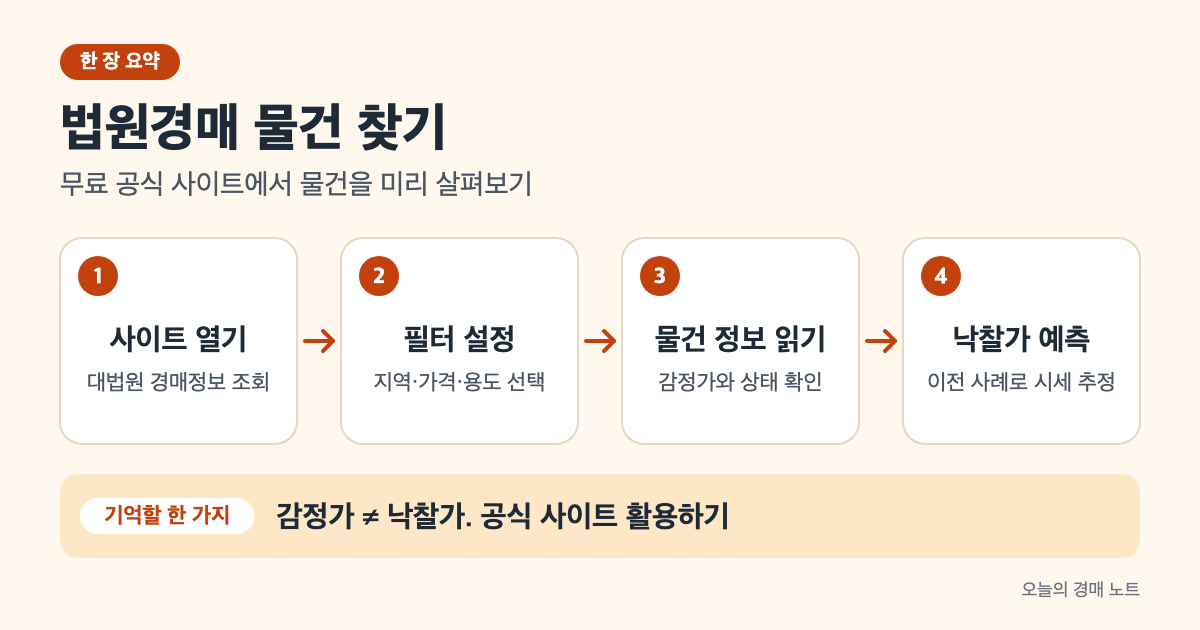
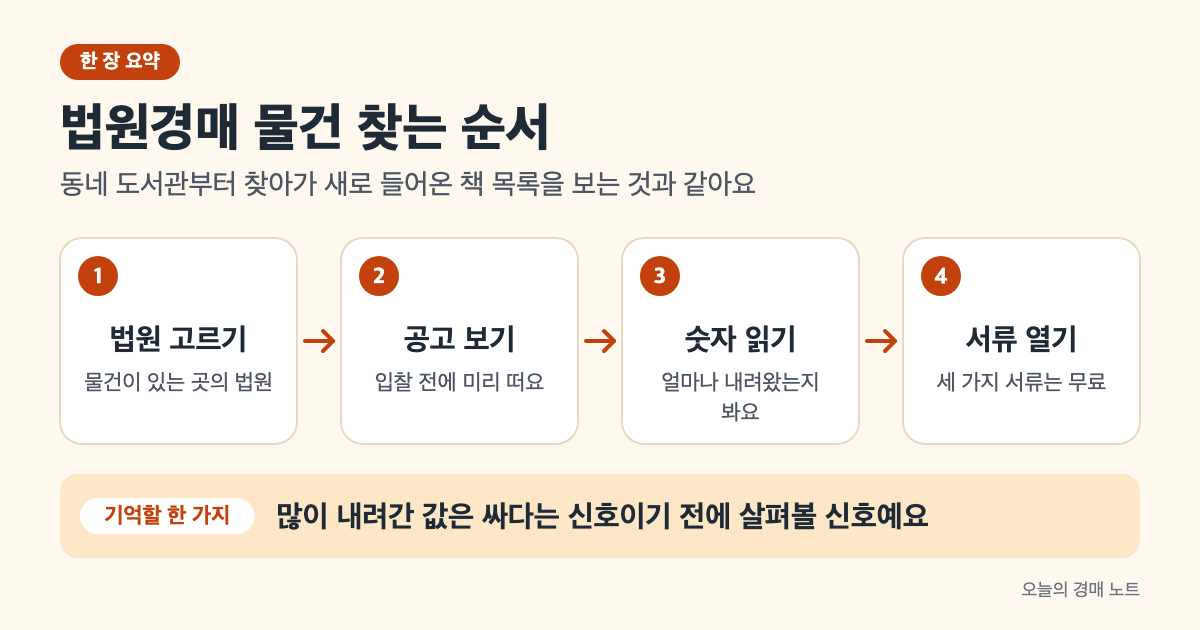
가이드 정리: 법원경매 무료 검색 — 법령 원문·실제 공고 기준으로 재작성

diff --git a/content/guide/court-auction-free-search/index.md b/content/guide/court-auction-free-search/index.md
@@ -2,101 +2,92 @@
 title: "법원경매 물건, 무료로 어디서 찾나"
 author: "rich-batch"
 date: 2026-09-19
-lastmod: 2026-09-19
+lastmod: 2026-10-11
 draft: true
 volatile: false
 categories: ["경매 절차"]
-tags: ["법원경매", "물건검색", "사건상태", "낙찰가예측", "감정가", "최저매각가"]
-description: "대법원 공식 사이트에서 무료로 경매 물건을 검색하는 방법. 지역·가격별 필터링부터 사건 상태 확인, 낙찰가 예측까지 초보자 3단계."
+tags: ["법원경매", "물건검색", "법원경매정보", "매각공고", "감정가", "최저매각가격"]
+description: "법원경매 물건은 법원경매정보에서 무료로 찾습니다. 관할 법원 고르기, 매각공고가 뜨는 시점, 감정가·최저매각가격·유찰 숫자 읽는 법을 법령과 실제 공고로 설명합니다."
 cover:
   image: "eli5-overview.png"
-  alt: "법원경매 물건 찾기의 4단계(사이트 열기 → 필터 설정 → 물건 정보 읽기 → 낙찰가 예측)를 화살표로 연결한 도식"
-  caption: "감정가와 낙찰가는 다릅니다. 대법원 공식 사이트에서 무료로 확인하세요."
+  alt: "관할 법원 고르기, 매각공고 보기, 숫자 읽기, 서류 열기의 네 단계를 화살표로 이은 도식"
+  caption: "물건은 관할 법원의 매각공고에서 찾고, 숫자를 읽은 뒤 서류를 엽니다"
 showToc: true
 TocOpen: true
 ---
 
-부동산 경매에 관심 있는 사람들이 가장 먼저 하는 일은 어디서 물건을 찾을까 검색하는 것입니다. 답은 간단한데요. **대법원이 운영하는 공식 사이트에서 무료로 찾으면 된다는 것입니다.** 이 글의 수치는 2026년 9월 19일 기준 공식 자료로 확인했습니다.
+법원경매 물건은 대법원이 운영하는 [법원경매정보](https://www.courtauction.go.kr/)에서 무료로 찾습니다. 법원은 매각기일 2주 전까지 최저매각가격과 점유 관계 등을 공고해야 하고([민사집행규칙 제56조](https://www.law.go.kr/법령/민사집행규칙/제56조)), 그 공고를 전자통신매체로 할 수 있어서([민사집행규칙 제11조](https://www.law.go.kr/법령/민사집행규칙/제11조)) 전국 법원의 매각 물건이 이 사이트 한곳에 모입니다.
 
-많은 초보자가 사설 경매 앱이나 블로그를 통해 물건을 찾다가 중개 수수료나 가짜 정보에 걸립니다. 하지만 대법원 시스템은 모든 법원경매 물건을 무료로 공개하고 있습니다. 이곳에서는 물건의 진짜 상태는 뭔지, 낙찰가가 어떻게 정해지는지, 내가 관심 있는 지역의 물건이 얼마나 있는지를 한눈에 파악할 수 있죠. 세 단계로 시작해 봅시다.
+찾는 곳은 하나인데 헤매는 이유는 대개 두 가지입니다. 물건이 있는 곳의 관할 법원을 몰라 엉뚱한 법원 공고를 보거나, 목록에 뜬 감정가·최저매각가격·유찰 횟수를 어떻게 읽어야 할지 모르는 거죠. 이 글은 2026년 10월 11일 기준 법령과 법원경매정보 공고로 그 두 가지를 정리했습니다.
 
 > **핵심 요약**
-> - 대법원 공식 사이트에서 모든 물건을 무료 조회할 수 있습니다 (로그인 불필요)
-> - 지역·가격·용도로 물건을 좁힌 뒤, 사건 상태로 현황을 확인합니다
-> - 감정가와 최저매각가, 이전 낙찰 사례로 입찰 전략을 세웁니다
+> - 물건이 있는 곳의 지방법원이 관할이라([민사집행법 제79조](https://www.law.go.kr/법령/민사집행법/제79조)), 법원부터 고르고 매각공고를 봅니다.
+> - 첫 회차 최저매각가격은 감정가를 참작해 정하고, 유찰되면 법원이 낮춰 새 기일을 잡습니다([민사집행법 제97조·제119조](https://www.law.go.kr/법령/민사집행법/제119조)).
 
-## 1단계: 대법원 사이트 열고 지역 선택하기
+## 관할 법원부터 고른다
 
-먼저 대법원 법원경매정보 시스템(검색 창에 "대법원 법원경매"라 입력하면 나옵니다)에 들어갑니다. 로그인이 필요 없습니다. 공개된 공식 정보이기 때문입니다.
+부동산 경매는 그 부동산이 있는 곳의 지방법원이 맡습니다([민사집행법 제79조](https://www.law.go.kr/법령/민사집행법/제79조)). 서울처럼 지방법원이 여럿인 곳은 구마다 관할이 갈려서, 법원을 잘못 고르면 원하는 동네 물건이 하나도 안 보여요.
 
-화면에 들어가면 가장 먼저 마주치는 것이 지역 선택 버튼입니다. 전국 16개 법원(서울, 부산, 대구, 인천 등)이 나열되어 있습니다. 서울 한 지역이라도 수백 개의 물건이 있을 수 있으니, 본인이 관심 있는 지역 법원을 선택합니다. 예를 들어 서울 강남구 아파트를 찾으면 서울중앙지방법원을 선택합니다([민사집행규칙 제30조](https://www.law.go.kr/법령/민사집행규칙/제30조) - 관할 법원 결정 규칙).
+이 블로그가 2026년 10월 매각기일 공고에서 모은 사건으로 보면 이렇게 나뉩니다. 송파구 잠실동 아파트는 서울동부지방법원, 구로·금천·강서·양천·영등포구 물건은 서울남부지방법원, 동작·관악구 물건은 서울중앙지방법원 사건이었고, 경기 북부의 의정부·양주·포천·연천 물건은 의정부지방법원에서 진행됐습니다([법원경매정보](https://www.courtauction.go.kr/)). 내 관심 지역이 어느 법원 소관인지는 관심 동네 주소로 사건 몇 개를 찾아보면 금방 확인돼요.
 
-여기서 주의할 점이 있습니다. 경매는 지역 관할이 정해져 있어서, 내가 원하는 지역이 어느 법원 관할인지 미리 확인하지 않으면 엉뚱한 법원에서 물건을 찾을 수 있습니다. 따라서 관심 있는 지역의 정확한 법원을 먼저 파악하세요.
+법원경매정보에서 물건을 찾는 길은 크게 둘입니다. 법원과 매각기일을 골라 그날 나오는 물건을 훑는 매각공고 검색, 사건번호를 이미 알 때 바로 들어가는 경매사건검색이에요. 처음이라면 관심 법원의 다음 달 매각공고를 열어 보는 것부터 시작하면 됩니다.
 
-## 2단계: 물건의 종류와 가격으로 검색 범위 좁히기
+## 매각공고는 매각기일 2주 전에 뜬다
 
-지역을 선택하면 그다음이 중요합니다. 물건을 어떤 기준으로 찾을 것인지 결정하는 단계거든요. 대부분의 법원경매 사이트는 세 가지 필터를 제공합니다.
+공고에는 법이 정한 내용이 들어갑니다. 부동산의 표시, 점유자와 점유 권원, 차임이나 보증금, 매각기일의 일시·장소, 최저매각가격, 매각결정기일, 그리고 매각물건명세서·현황조사보고서·감정평가서 사본을 누구든지 볼 수 있게 제공한다는 취지까지요([민사집행법 제106조](https://www.law.go.kr/법령/민사집행법/제106조)). 매수신청 보증금액과 보증 제공 방법도 함께 공고됩니다([민사집행규칙 제56조](https://www.law.go.kr/법령/민사집행규칙/제56조)).
 
-**용도별 필터** — 아파트, 상가, 단독주택, 토지 등을 선택합니다. 투자 경험이 없다면 아파트부터 시작하는 것이 일반적입니다. 아파트는 관리비 체계가 명확하고, 명도(집에서 나가게 하기) 문제가 상대적으로 적기 때문입니다. 상가나 공장은 권리금, 세입자 강제 퇴거 등 복잡한 문제가 많아 경험이 필요합니다.
+시간표로 바꾸면 이렇습니다. 공고는 매각기일 2주 전까지, 서류 사본 비치는 1주 전까지예요([민사집행규칙 제55조](https://www.law.go.kr/법령/민사집행규칙/제55조)). 그러니 공고에서 물건을 처음 본 날부터 입찰일까지 길어야 2주 남짓이고, 그 안에 서류를 읽고 현장을 보고 자금 계획까지 세워야 합니다. 관심 법원의 공고를 매주 한 번씩 정해 두고 보는 습관이 그래서 중요해요.
 
-**가격 범위 설정** — 최저가와 최고가를 직접 입력해 검색 범위를 줄입니다. 이 가격은 감정가 기준입니다. 실제 낙찰가는 이보다 낮을 수 있습니다. [경매 낙찰금 계산](../auction-total-cost-calc)에서 자세히 설명하지만, 감정가는 공시지가와 감정평가사가 정한 건물 가격의 합입니다.
+## 목록의 숫자 읽기: 감정가, 최저매각가격, 유찰
 
-**면적별 필터** (선택사항) — 너무 큰 물건이나 너무 작은 물건을 제외할 때 씁니다. 중형·대형 같은 분류는 물건의 투자 특성을 결정하는 요소입니다. 투자 시장에서는 중형 물건이 가장 유동성이 좋은 편입니다.
+목록에서 가장 먼저 보이는 두 숫자가 감정가와 최저매각가격입니다. 법원은 감정인에게 부동산을 평가하게 하고 그 평가액을 참작해 최저매각가격을 정해요([민사집행법 제97조](https://www.law.go.kr/법령/민사집행법/제97조)). 그래서 첫 회차는 보통 감정가와 최저매각가격이 같습니다.
 
-## 3단계: 물건 정보 읽기 — 감정가, 최저매각가, 사건 상태
+아무도 입찰하지 않아 유찰되면, 법원은 최저매각가격을 "상당히 낮추고" 새 매각기일을 정합니다([민사집행법 제119조](https://www.law.go.kr/법령/민사집행법/제119조)). 법에는 얼마나 낮추는지 비율이 적혀 있지 않아서 법원마다 다르게 운영되는데, 실제 공고를 보면 차이가 그대로 드러나요.
 
-자신이 원하는 조건으로 필터를 걸면 물건 목록이 나타납니다. 각 물건 카드에는 여러 정보가 있는데, 어떤 정보가 중요한지 알아야 입찰 결정을 제대로 할 수 있죠.
+| 법원 | 감정가 | 최저매각가격 | 감정가 대비 | 읽는 법 |
+|---|---|---|---|---|
+| 서울남부지방법원 (구로구 오류동 아파트) | 3억 500만 원 | 9,994만 2천 원 | 32.8% | 20%씩 다섯 번 낮춘 값(0.8의 5제곱) |
+| 서울남부지방법원 (금천구 가산동 아파트) | 1억 1,000만 원 | 5,632만 원 | 51.2% | 20%씩 세 번(0.8의 3제곱) |
+| 의정부지방법원 (양주시 장흥면 아파트) | 3억 5,900만 원 | 1억 7,591만 원 | 49.0% | 30%씩 두 번(0.7의 제곱) |
 
-**감정가 vs 최저매각가** — 여기서 헷갈리는 초보자가 많습니다. 감정가는 감정평가사가 정한 '공식 가치'입니다. 낙찰가는 이것보다 낮을 가능성이 큽니다. 최저매각가는 이 물건에서 받을 수 있는 최소 가격인데, 보통 감정가의 70~80% 정도입니다([부동산등에 대한 경매절차 처리지침](https://www.scourt.go.kr) 참고). 입찰자는 최저매각가 이상으로 입찰해야 하고, 실제 경쟁이 심하면 낙찰가는 감정가에 가까워집니다.
+출처: [법원경매정보](https://www.courtauction.go.kr/) 2026년 10월 1일 매각기일 공고, 비율은 이 블로그 계산 (2026년 10월 11일 기준)
 
-물건을 선택할 때 이 세 가지(감정가·최저매각가·예상 경쟁)를 모두 살펴야 합니다. 그래야 내가 낼 수 있는 가격 범위를 정하고 입찰할지 말지 판단할 수 있습니다.
+감정가 대비 비율로 몇 번 유찰됐는지 거꾸로 짐작할 수 있다는 뜻입니다. 32.8%까지 내려간 오류동 아파트라면 다섯 번 동안 아무도 입찰하지 않은 이유가 있을 가능성이 크죠([법원경매정보](https://www.courtauction.go.kr/)). 대항력 있는 임차인처럼 인수할 권리가 있거나, 점유자 문제, 물건 자체의 하자 같은 것들이요. 싸다는 신호이기 전에 서류를 더 꼼꼼히 봐야 한다는 신호로 읽는 게 맞습니다.
 
-**사건 상태 확인** — 같은 물건이라도 현재 어느 단계에 있는지가 매우 중요합니다.
+반대로 감정가가 곧 시세라는 뜻도 아닙니다. 감정은 공고보다 몇 달 앞서 이뤄지니 그사이 시세가 움직였을 수 있어요. 비슷한 물건의 실거래가는 [국토교통부 실거래가 공개시스템](https://rt.molit.go.kr/)에서 따로 확인해야 합니다.
 
-| 상태 | 의미 | 해야 할 일 |
-|------|------|----------|
-| **진행 중** | 아직 낙찰이 나지 않은 물건 | 입찰 일정 확인, 심사 기간 중 물건 방문 |
-| **예정** | 경매 공고가 아직 나지 않은 물건 | 미리 정보 분석 (다른 입찰자들보다 먼저) |
-| **낙찰 확정** | 입찰에서 이긴 사람이 결정된 상태 | 이전 낙찰가로 시장 동향 파악 |
+## 마음에 드는 물건이면 서류를 연다
 
-미리 공고를 기다리는 예정 물건을 찾는 것도 좋은 전략입니다. 공고 직전에 다른 입찰자들이 몰려들기 때문에, 미리 물건 정보를 분석할 수 있거든요. 낙찰 확정 물건은 "내가 이 가격대에서 입찰했을 때 경쟁이 어느 수준인가"를 파악하기 위한 참고 자료로 봅니다.
+목록에서 후보를 골랐다면 상세 화면에서 매각물건명세서·현황조사보고서·감정평가서를 엽니다. 법원은 이 세 서류를 누구든지 볼 수 있게 해야 해서([민사집행법 제105조](https://www.law.go.kr/법령/민사집행법/제105조)) 모두 무료예요. 등기부처럼 따로 비용이 드는 자료와 유료 경매정보 서비스가 대신해 주는 것은 [경매 사이트, 무료 공식 자료로 충분할까]({{< relref "/guide/auction-site-comparison" >}})에 정리했습니다.
 
-## 낙찰가 예측하기 — 감정가만으로는 부족합니다
-
-물건을 찾았다면, 이제 해야 할 일이 있습니다. 이 물건이 낙찰가로 얼마나 될지를 추정해야 입찰할지 말지를 결정할 수 있거든요. 감정가만 보고 "낙찰가도 비슷하겠지"라고 생각하면 위험합니다. 시세는 지역, 시기, 물건의 상태(노후도, 권리금 유무, 세입자 여부) 모두에 따라 크게 달라집니다.
-
-**이전 낙찰 사례 찾기** — 같은 동, 같은 용도의 물건들을 살펴보세요. 지난 경매에서 낙찰된 물건들의 감정가 대비 낙찰가 비율을 보면 패턴이 보입니다. [경매가 저렴한 이유](../why-auction-prices-lower)에서 설명하지만, 경매 낙찰가는 시세의 일정 수준에서 형성되는 경향이 있습니다. 위험도 높은 물건(세입자 있음, 노후·하자 많음)은 더 낮고, 깨끗한 물건은 시세에 가까워집니다.
-
-[경매 낙찰금 계산](../auction-total-cost-calc)에서 자세히 설명하지만, 낙찰가 외에도 취득세, 등기료, 명도 비용 등이 들어갑니다. 이 비용들을 고려해 최종 입찰가를 정하세요. [경매 입찰 방법](../court-auction-bidding-guide)에서는 현장과 온라인 입찰의 차이를 설명하는데, 처음에는 현장 입찰로 시작하는 초보자가 많습니다. 심사 기간 동안 물건을 직접 보러 갈 수 있기 때문입니다. 경매 물건 중에는 세입자가 아직 살고 있는 집, 하자가 있는 집도 많으니, 반드시 직접 확인하고 입찰에 참여하세요.
-
-> **한 줄 정리** 무료 사이트에서 물건을 찾은 뒤, 감정가·최저매각가·이전 사례를 함께 보고 낙찰가를 추정한 뒤, 입찰 여부를 결정하세요. 감정가만 보고 입찰하면 낭패를 봅니다.
+입찰을 결심했다면 보증금도 미리 계산해 둡니다. 기일입찰의 보증금은 최저매각가격의 10분의 1이라([민사집행규칙 제63조](https://www.law.go.kr/법령/민사집행규칙/제63조)), 위 표의 오류동 아파트라면 약 999만 원이에요. 입찰표 쓰는 법과 당일 절차는 [경매 입찰 방법, 보증금부터 얼마일까]({{< relref "/guide/court-auction-bidding-guide" >}})에서 다룹니다.
 
 ## 자주 묻는 질문
 
-### Q. 물건 정보를 보려면 꼭 회원가입을 해야 하나요?
-아니요. 조회만 하면 가입이 필요 없습니다. 다만 실제로 입찰하려면 법원에서 가입해야 합니다. 각 법원의 경매 담당부에서 입찰 신청서를 받고, 보증금을 사건번호별로 납부하는 절차를 거쳐야 합니다([민사집행규칙 제63조](https://www.law.go.kr/법령/민사집행규칙/제63조) - 보증금).
+### Q. 공매 물건도 법원경매정보에서 찾을 수 있나요?
 
-### Q. "진행 중인 물건이라면 지금 언제까지 입찰할 수 있나요?"
-물건마다 입찰 기간이 정해져 있습니다. 공고 기간(공고 후 3주)이 끝나면([민사집행규칙 제59조](https://www.law.go.kr/법령/민사집행규칙/제59조)) 입찰 기간이 시작되고, 그 기간에만 입찰할 수 있습니다. 기간을 놓치면 다음 경매를 기다려야 합니다. [경매 입찰 방법](../court-auction-bidding-guide)에서 정확한 일정을 확인할 수 있습니다.
+공매는 따로입니다. 세금 체납 압류재산 같은 공매 물건은 한국자산관리공사의 [온비드](https://www.onbid.co.kr/)에서 공고되고, 공매재산명세서도 그곳에 게시돼요([국세징수법 제77조](https://www.law.go.kr/법령/국세징수법/제77조)). 두 제도의 기본 차이는 [경매란? 법원경매와 공매의 차이]({{< relref "/guide/what-is-auction" >}})에 정리했습니다.
 
-### Q. 감정가가 높으면 낙찰가도 높아진다고 봐도 되나요?
-반드시 그렇지는 않습니다. 감정가는 건물의 객관적 가치를 평가한 것이지, 입찰자들이 실제로 낼 가격이 아니기 때문입니다. 낙찰가는 "그 물건에 관심 있는 사람이 몇 명이고, 각자 얼마나 높은 가격을 제시하는가"에 따라 결정됩니다. 깨끗한 물건은 감정가에 가까워지지만, 위험 요소가 있는 물건(세입자 거주, 노후, 권리금)은 크게 내려갑니다. [경매가 저렴한 이유](../why-auction-prices-lower)에서 이 차이를 구체적으로 설명합니다.
+### Q. 유찰될 때마다 몇 퍼센트씩 내려가나요?
 
-### Q. 지역별로 경매 물건이 많이 올라오는 계절이 있나요?
-[경험 추가 필요: 계절별 물건 수 변동 추이나 지역별 특성에 대한 자신의 관찰]
+법은 "상당히 낮춘다"고만 정하고 있습니다([민사집행법 제119조](https://www.law.go.kr/법령/민사집행법/제119조)). 위 공고에서 서울남부지방법원은 20%씩, 의정부지방법원은 30%씩 낮춘 값이 나왔지만, 다른 법원이나 다른 사건에서 같다고 단정할 수는 없어요. 관심 법원의 공고에서 감정가 대비 비율을 직접 보는 게 가장 정확합니다.
 
-### Q. 대법원 사이트에 올라와 있지만 입찰하지 말아야 할 물건이 있나요?
-있습니다. 예를 들어 세입자가 거주 중이고 명도가 어려운 물건, 밀린 관리비가 많은 물건, 권리금이 있는 상가는 구매 후 문제가 될 수 있습니다. 심사 기간에 물건을 직접 보고, [경매 권리금 처리](../auction-key-money), [경매 명도 어려운 물건](../difficult-eviction-auction-property) 등 관련 글을 읽고 위험도를 판단해야 합니다.
+### Q. 매각기일이 바뀌거나 사건이 사라지기도 하나요?
+
+공고된 매각기일도 변경되거나 사건이 취하·정지될 수 있으니, 입찰 전날과 당일 아침에 사건번호로 진행 상태를 다시 확인하세요. 이 블로그의 [물건 분석]({{< relref "/analysis" >}}) 글도 매각기일 기준으로 쓰기 때문에, 입찰 전에는 법원경매정보에서 최신 상태를 확인해야 합니다.
 
 ## 참고 자료
 
-- [민사집행규칙 제30조 - 관할](https://www.law.go.kr/법령/민사집행규칙/제30조) — 경매 담당 법원 결정 기준
-- [민사집행규칙 제59조 - 공고 기간](https://www.law.go.kr/법령/민사집행규칙/제59조) — 공고에서 입찰까지 기간
-- [민사집행규칙 제63조 - 보증금](https://www.law.go.kr/법령/민사집행규칙/제63조) — 입찰 보증금 규정
-- [부동산등에 대한 경매절차 처리지침](https://www.scourt.go.kr) — 대법원 실무지침, 감정가·최저매각가 관계
-- [경매 입찰 방법](../court-auction-bidding-guide) — 입찰표 작성부터 낙찰까지 절차
-- [경매 낙찰금 계산](../auction-total-cost-calc) — 낙찰가 외 드는 비용 계산
-- [경매가 저렴한 이유](../why-auction-prices-lower) — 시세와의 차이 구조
-- [경매 권리금 처리](../auction-key-money) — 상가 물건의 권리금 위험
-- [경매 명도 어려운 물건](../difficult-eviction-auction-property) — 세입자 있는 물건 주의사항
-
+- [법원경매정보](https://www.courtauction.go.kr/) — 법원별 매각공고, 경매사건검색, 2026년 10월 매각기일 공고 (2026-10-11 확인)
+- [민사집행법 제79조 · 집행법원](https://www.law.go.kr/법령/민사집행법/제79조) — 부동산이 있는 곳의 지방법원 관할 (2026-10-11 확인)
+- [민사집행법 제97조 · 최저매각가격의 결정](https://www.law.go.kr/법령/민사집행법/제97조) — 감정인 평가액을 참작해 결정 (2026-10-11 확인)
+- [민사집행법 제105조 · 매각물건명세서 등](https://www.law.go.kr/법령/민사집행법/제105조) — 서류 사본을 누구든지 볼 수 있게 비치 (2026-10-11 확인)
+- [민사집행법 제106조 · 매각기일의 공고내용](https://www.law.go.kr/법령/민사집행법/제106조) — 공고에 적을 사항 (2026-10-11 확인)
+- [민사집행법 제119조 · 새 매각기일](https://www.law.go.kr/법령/민사집행법/제119조) — 유찰 시 최저매각가격을 상당히 낮춤 (2026-10-11 확인)
+- [민사집행규칙 제11조 · 공고](https://www.law.go.kr/법령/민사집행규칙/제11조) — 전자통신매체를 이용한 공고 (2026-10-11 확인)
+- [민사집행규칙 제55조 · 매각물건명세서 사본 등의 비치](https://www.law.go.kr/법령/민사집행규칙/제55조) — 매각기일 1주 전까지 비치 (2026-10-11 확인)
+- [민사집행규칙 제56조 · 매각기일의 공고내용 등](https://www.law.go.kr/법령/민사집행규칙/제56조) — 매각기일 2주 전까지 공고, 보증금액 공고 (2026-10-11 확인)
+- [민사집행규칙 제63조 · 기일입찰 매수신청보증](https://www.law.go.kr/법령/민사집행규칙/제63조) — 최저매각가격의 10분의 1 (2026-10-11 확인)
+- [국세징수법 제77조 · 공매재산명세서](https://www.law.go.kr/법령/국세징수법/제77조) — 공매재산명세서 게시 (2026-10-11 확인)
+- [국토교통부 실거래가 공개시스템](https://rt.molit.go.kr/) — 실거래가 조회 (2026-10-11 확인)
+- [온비드](https://www.onbid.co.kr/) — 공매 물건 공고 (2026-10-11 확인)

diff --git a/pipeline/guide/research/court-auction-free-search.md b/pipeline/guide/research/court-auction-free-search.md
@@ -31,9 +31,10 @@
 - 사건 상태(진행 중/예정/종료) 구분 없음
 
 차별점:
-- 물건 정보(감정가·최저매각가·사건 상태)를 해석하는 방법을 명확히 설명 — 경쟁 글은 "어디서 찾는가" 중심, "어떻게 읽는가" 누락
-- 사건 상태(진행 중/예정/낙찰확정)별 의미와 각 상태에서 해야 할 일을 표로 구체화
-- 낙찰가 예측 방법(감정가·최저매각가·이전 사례 비교)으로 입찰 결정 기준 제공
+- 이전 초안의 오류(민사집행규칙 제30조를 관할 조항으로 인용, "최저가는 보통 감정가의 70~80%", 근거 없는 사건 상태표, 존재하지 않는 글로 가는 상대 링크)를 모두 걷어내고 법령 원문으로 다시 씀
+- 관할(민사집행법 제79조)을 이 블로그가 실제로 모은 서울·경기 사건의 법원 배치로 보여 줌
+- 유찰 저감률이 법에 정해져 있지 않다는 점(제119조 "상당히 낮추고")을 실제 공고의 감정가 대비 비율로 역산해 법원별 차이(서울남부 20%, 의정부 30%)를 보여 줌
+- 공고 2주 전·서류 비치 1주 전이라는 시간표로 "공고를 본 날부터 입찰까지 2주 남짓"이라는 실무 판단을 줌
 
 ## 확인할 공식 자료 목록
 
@@ -94,3 +95,21 @@ keywords.csv의 `my_experience` 필드: (없음)
 예상 위치:
 - "저라면 입찰 전에 이 정보부터 확인합니다"의 우선순위 경험
 - 실제 물건을 찾다가 헷갈렸던 부분
+
+
+### 2026-10-11 고쳐쓰기 — 법령 원문 대조
+
+| # | 확인한 내용 | 원문 인용 | 출처 | URL | 읽은 방법 |
+|---|---|---|---|---|---|
+| R1 | 부동산 강제집행은 부동산이 있는 곳의 지방법원 관할 | "부동산에 대한 강제집행은 그 부동산이 있는 곳의 지방법원이 관할한다" | 민사집행법 제79조 | https://www.law.go.kr/법령/민사집행법/제79조 | law.go.kr DRF API |
+| R2 | 최저매각가격은 감정인 평가액을 참작해 결정 | "그 평가액을 참작하여 최저매각가격을 정하여야 한다" | 민사집행법 제97조 | https://www.law.go.kr/법령/민사집행법/제97조 | law.go.kr DRF API |
+| R3 | 유찰 시 최저매각가격을 상당히 낮추고 새 매각기일 | "법원은 최저매각가격을 상당히 낮추고 새 매각기일을 정하여야 한다" | 민사집행법 제119조 | https://www.law.go.kr/법령/민사집행법/제119조 | law.go.kr DRF API |
+| R4 | 공고 내용(부동산 표시, 점유, 매각기일, 최저매각가격, 매각결정기일, 서류 비치 취지) | "매각물건명세서ㆍ현황조사보고서 및 평가서의 사본을 매각기일 전에 법원에 비치하여 누구든지 볼 수 있도록 제공한다는 취지" | 민사집행법 제106조 | https://www.law.go.kr/법령/민사집행법/제106조 | law.go.kr DRF API |
+| R5 | 매각기일 2주 전까지 공고, 보증금액·제공방법 공고 | "매각기일 ... 의 2주 전까지 법 제106조에 규정된 사항과 다음 각호의 사항을 공고하여야 한다" | 민사집행규칙 제56조 | https://www.law.go.kr/법령/민사집행규칙/제56조 | law.go.kr DRF API |
+| R6 | 공고 방법에 전자통신매체 포함 | "전자통신매체를 이용한 공고" | 민사집행규칙 제11조 | https://www.law.go.kr/법령/민사집행규칙/제11조 | law.go.kr DRF API |
+| R7 | 서류 사본 매각기일 1주 전까지 비치 | "매각기일 ... 마다 그 1주 전까지 법원에 비치하여야 한다" | 민사집행규칙 제55조 | https://www.law.go.kr/법령/민사집행규칙/제55조 | law.go.kr DRF API |
+| R8 | 서류 사본을 누구든지 볼 수 있게 | "누구든지 볼 수 있도록 하여야 한다" | 민사집행법 제105조 | https://www.law.go.kr/법령/민사집행법/제105조 | law.go.kr DRF API |
+| R9 | 기일입찰 보증금 최저매각가격의 10분의 1 | "최저매각가격의 10분의 1로 한다" | 민사집행규칙 제63조 | https://www.law.go.kr/법령/민사집행규칙/제63조 | law.go.kr DRF API |
+| R10 | 공매재산명세서 정보통신망 게시 | (조문 본문) | 국세징수법 제77조 | https://www.law.go.kr/법령/국세징수법/제77조 | law.go.kr DRF API |
+| 공고 | 2026-10-01 매각기일 공고: 서울남부 2025타경10947 감정 305,000,000 / 최저 99,942,000 (=0.8^5), 서울남부 2026타경3367 110,000,000 / 56,320,000 (=0.8^3), 의정부 2025타경4711 359,000,000 / 175,910,000 (=0.7^2). 관할: 송파 잠실 → 서울동부, 구로·금천·강서·양천·영등포 → 서울남부, 동작·관악 → 서울중앙, 의정부·양주·포천·연천 → 의정부 | 법원경매정보 매각공고 (이 저장소 data/cases/*.json, tools/analysis/fetch-court.mjs로 조회) | 법원경매정보 | https://www.courtauction.go.kr/ | 도구 조회 |
+| 참고 | 실거래가 공개시스템, 온비드 접속 확인 | — | 국토교통부·한국자산관리공사 | https://rt.molit.go.kr/ , https://www.onbid.co.kr/ | curl |
